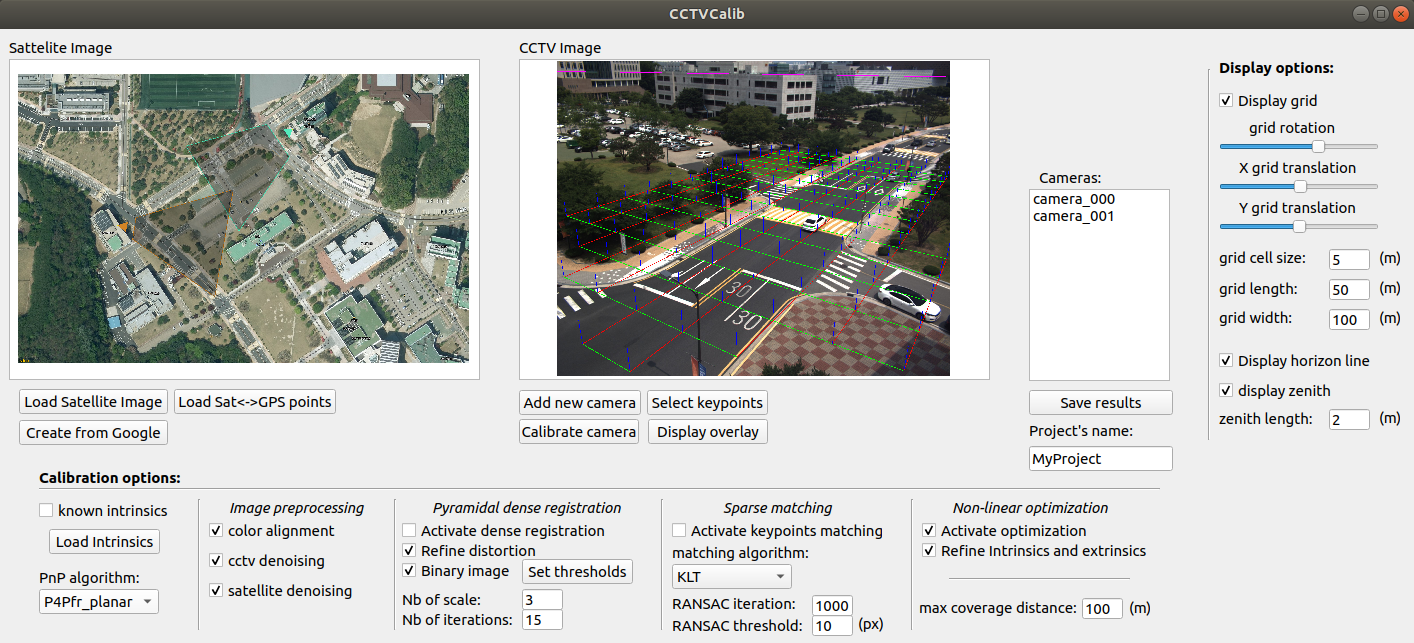
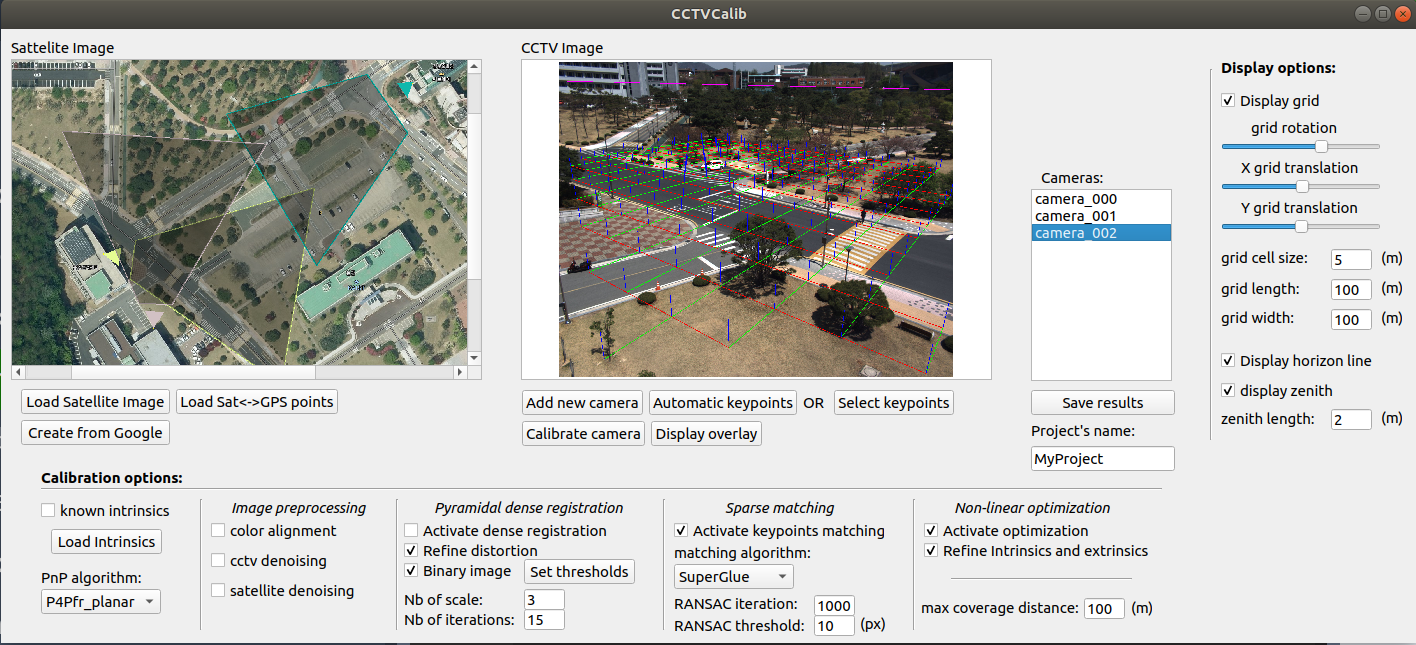
Updated Readme

diff --git a/README.md b/README.md
@@ -14,18 +14,23 @@ Important notice: A mouse with a wheel is required to properly use the toolbox.
 </figure>
 
 ## Dependencies
-PyQt
-OpenCV
+matplotlib==2.1.1
+numpy==1.13.3
+opencv_python==4.1.2.30
+PyQt5==5.15.6
+requests==2.18.4
+scipy==1.4.1
+torch==1.4.0
 
 ## Tutorial
 
 # Run CCTV-Calib
 
-To run the toolbox, simply type ```python cctv_calib.py``` in the terminal.
+To run the GUI toolbox, simply type ```python cctv_calib.py``` in the terminal.
 
 # Prepare the satellite view
 
-A pre-requisite is to have a satellite of the scene observed by the surveillance camera. CCTV-Calib contains a module to automatically extract download the appropriate satellite image and to generate the associated meta-data. To generate this image from Google Maps, press ```Create from Google``` and a new window will pop, here you need to set your [Google API key](https://developers.google.com/maps) and the longitude and lattitude GPS position of the camera via the fields ```lon``` and ```lat``` (WGS84). Finally, the image can be generated by pressing ```Generate image``` (do not forget to unzoom using the mouse wheel to be sure to see the entire picture). The zoom of the image can also be adapted, when the satellite view is satisfying it can be saved by pressing ```Save image and points```. Two image will be created, namely, the picture ```your_satellite_image.png``` and the *.yml file ```your_satellite_image.yml```. 
+A pre-requisite is to have a satellite of the scene observed by the surveillance camera. CCTV-Calib contains a module to automatically extract download the appropriate satellite image and to generate the associated meta-data. To generate this image from Google Maps, press ```Create from Google``` and a new window will pop, here you need to set your [Google API key](https://developers.google.com/maps) and the longitude and lattitude GPS position of the camera via the fields ```lon``` and ```lat``` (WGS84). Finally, the image can be generated by pressing ```Generate image``` (do not forget to unzoom using the mouse wheel to be sure to see the entire picture). The zoom of the image can also be adapted, when the satellite view is satisfying it can be saved by pressing ```Save image and points```. Two files will be created, namely, the picture ```your_satellite_image.png``` and the *.yml file ```your_satellite_image.yml```. 
 This yml file is composed as follows:
 ```bash
 %YAML:1.0
@@ -44,7 +49,7 @@ pts_sat: !!opencv-matrix
    dt: d
    data: [ 0., 0., 1280., 0., 1280., 1280., 0., 1280. ]
 ```
-This file contains the gps points and their corresponding pixelic location.
+This file contains the pixelic location of the 4 corner of the satellite view and their respective GPS coordinates.
 If you do not want to spend money on Google Maps, you can also create this file yourself by providing at least 3 corresponding points yourself.
 
 1. Load the satellite image
@@ -52,22 +57,25 @@ If you do not want to spend money on Google Maps, you can also create this file 
 Now that your satellite image is ready, you can open it in CCTV-Calib: ```Load Satellite Image```. Then load the corresponding metadata containing the correspondences via ```Load Sat <-> GPS points```, if you do not load this data, the calibration will not be done at a metric scale and the GPS position will be not computed properly.
 
 2. Add a CCTV camera to be calibrated
-CCTV-Calib has the ability to calibrate multiple camera from a single satellite image. To include a new CCTV camera ta be calibrated, simply press ```Add new camera``` and select the image/video acquired from the camera of interest (if a video is loaded, a background substration will be processed which can take up to a few minutes depending on the size of the video). Then the image will appear on the right handside.
+CCTV-Calib has the ability to calibrate multiple camera from a single satellite image. To include a new CCTV camera to be calibrated, simply press ```Add new camera``` and select the image/video acquired from the camera of interest (if a video is loaded, a background substration will be processed which can take up to a few minutes depending on the size of the video). Then the image will appear on the right handside.
 
-3. Select cctv<->satellite correspondences
-Now it is time to select a set of correspondences between the satellite and the cctv images. Press the button ```Select keypoints``` to open the keypoints module. 
-First you can set the number of points you would like to provide, note that a minimum of 4 points are requiered to calibrate a perspective camera without distortion. Usually 6 or 7 points are sufficient to calibrate any traffic surveillance camera. Then you zoom (mouse wheel) and navigate through the image (by pressing the wheel of the mouse). The right mouse button can be used to set a ROI on the satellite image and to zoom on the cctv image.
+3. Find initial cctv<->satellite correspondences
+-  *Automatic correspondance*
+Now it is time to proceed to the original matching between the satellite view and the CCTV image. For simplicity, we recommend using the automatic strategy via SuperGlue by clicking on the button ```Automatic keypoints```. First the satellite image should be manually rotated by the user with the buttons ```↶``` and ```↷```  to align the satellite image as much as possible with the CCTV view. Thereafter a ROI have to be selected on the satellite view by holding the right mouse click. Then simply press ```Compute keypoints matching``` and the matching result will appear on the right handside. If you are satisfied by this matching press ```Apply```. If the matching is not correct you can rotate and select another ROI.
+
+- *Select cctv<->satellite correspondences manually*
+If the automatic correspondance matching failed, you can manually select a set of correspondance on both images. For that purpose, press the button ```Select keypoints``` to open the keypoints selection module. 
+First you can set the number of points you would like to provide, note that a minimum of 4 points are requiered to calibrate a perspective camera without distortion. Usually 6 or 7 points are sufficient to calibrate any traffic surveillance camera. You can freely zoom (mouse wheel) and navigate through the images (by pressing the wheel of the mouse). The right mouse button can be used to set a ROI on the satellite image and to zoom on the cctv image.
 The point correspondance can be selected with a left click, when a corresponding keypoint is selected on both images, it is possible to move to the next keypoint by pressing ```space``` (space will reset to view to the last ROI selected on the satellite view) or ```N``` or by manually changing the value in ```current points```. 
-When all the keypoints have been set, you can press ```Apply```.
-
+When all the keypoints have been selected, you can press ```Apply```.
 
 4. Set your pose estimation algorithm
 Now you can proceed to the camera calibration, by default only the correspondance you have selected will be used for the calibration. You can directly calibrate the camera by pressing ```Calibrate Camera``` and check the validadity of the resulting parameters by inspecting the resulting image overlay ```Display overlay```. Looking at the distortion correction, grid and horizon line, gives also good indication regarding the quality of the calibration (in the main window).
 If you are not satisfied with the obtained results, you can modify the pose estimation algorithm ```PnP algorithm```. For instance, if the camera contains a limited amount of distortion, the option ```P4Pf``` or ```homography``` might lead to be results. If you do not want to refine the intrinsic parameters of the camera (for instance if you want to assume zero radial distortion) the option ```Refine Intrinsics and extrinsics``` can be unticked. Note that the RANSAC threshold can also be adjusted accordingly with your image resolution.
 
 5. Include refinement techniques
-CCTV-Calib contains two refinement strategies that can be used jointly or individually. The first one is a dense registration techniques that can be activated via ```Activate dense registration```. This dense registration can be achieved by minimizing the photometric difference between the CCTV and the warped satellite image or by using a binarized version of them (in order to segment the roadmarkings). The user can set the binary thresholds at will via the module ```Set thresholds```.
-When the cctv and satellite images are too disimilar this refinement option can be kept deactivated. Alternatively, a sparse matching strategy can be used, this option can be activated via ```Activate keypoints matching```. The KLT algorithm usually provides satisfying results (GMS matching can also be used but is often resulting in less accurate calibration).
+CCTV-Calib contains two refinement strategies that can be used jointly or individually. The first one is a dense registration techniques that can be activated via ```Activate dense registration```. This dense registration can be achieved by minimizing the photometric difference between the CCTV and the warped satellite image or by using a binarized version of them (in order to segment the roadmarkings). The user can set the binary thresholds at will via the module ```Set thresholds```. *The dense registration is not recommended since SP+SG refinement leads to better results*
+When the cctv and satellite images are too disimilar this refinement option can be kept deactivated. Alternatively, a sparse matching strategy can be used, this option can be activated via ```Activate keypoints matching```. The SP+SG algorithm usually provides satisfying results (KLT or GMS matching can also be used but is often resulting in less accurate calibration).
 After you have selected your refinement preferences you can press ```Calibrate camera```.
 
 6. Add additional cameras
